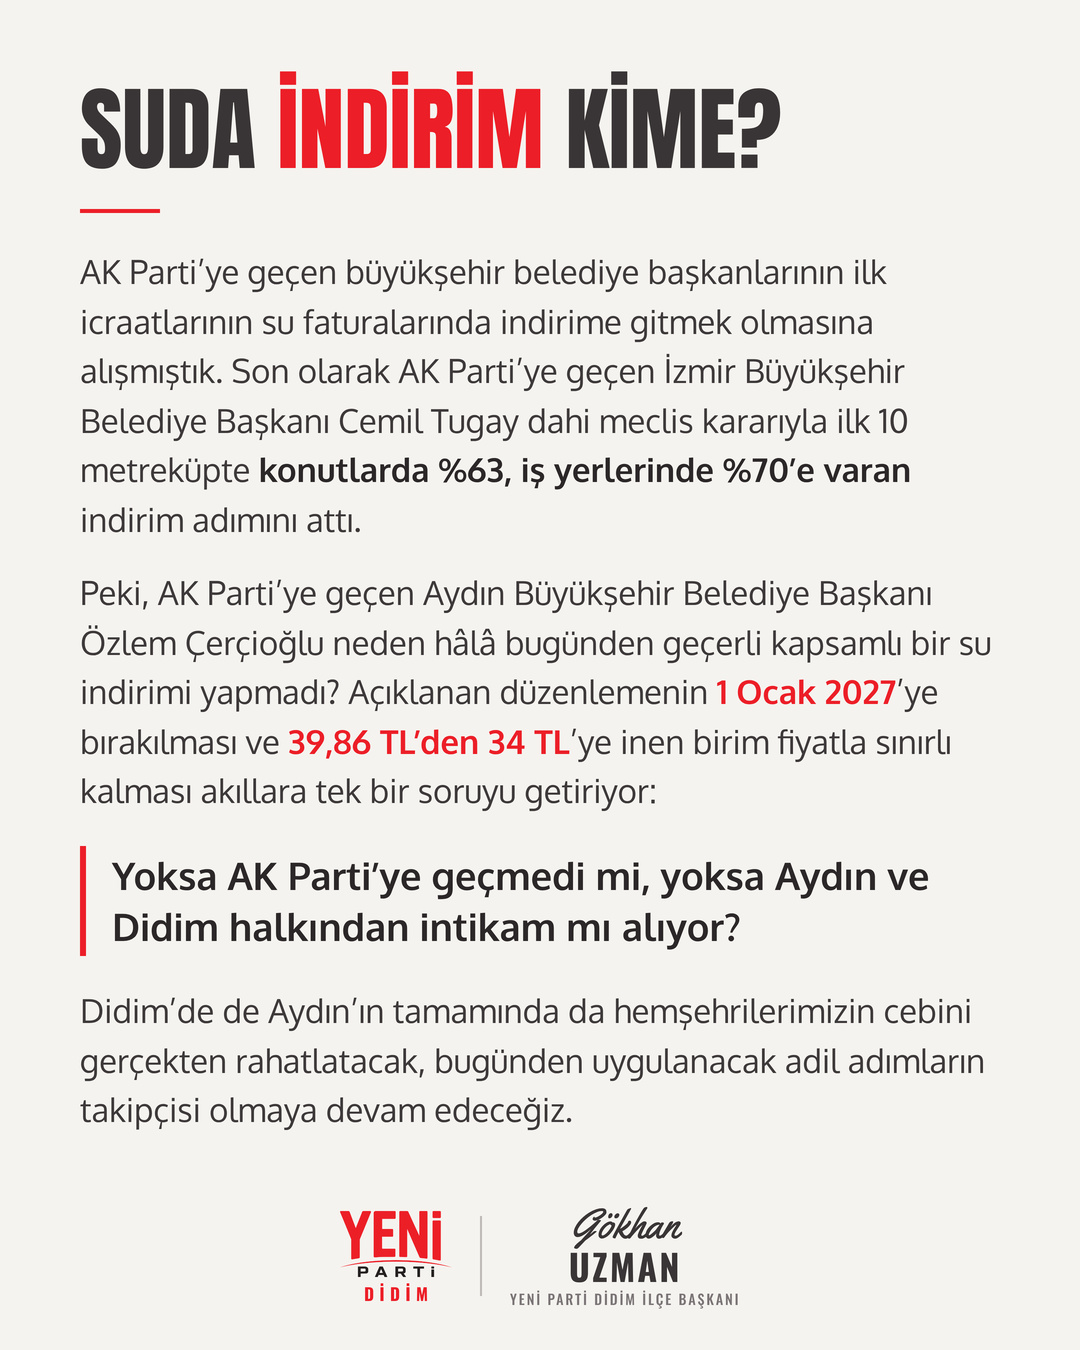
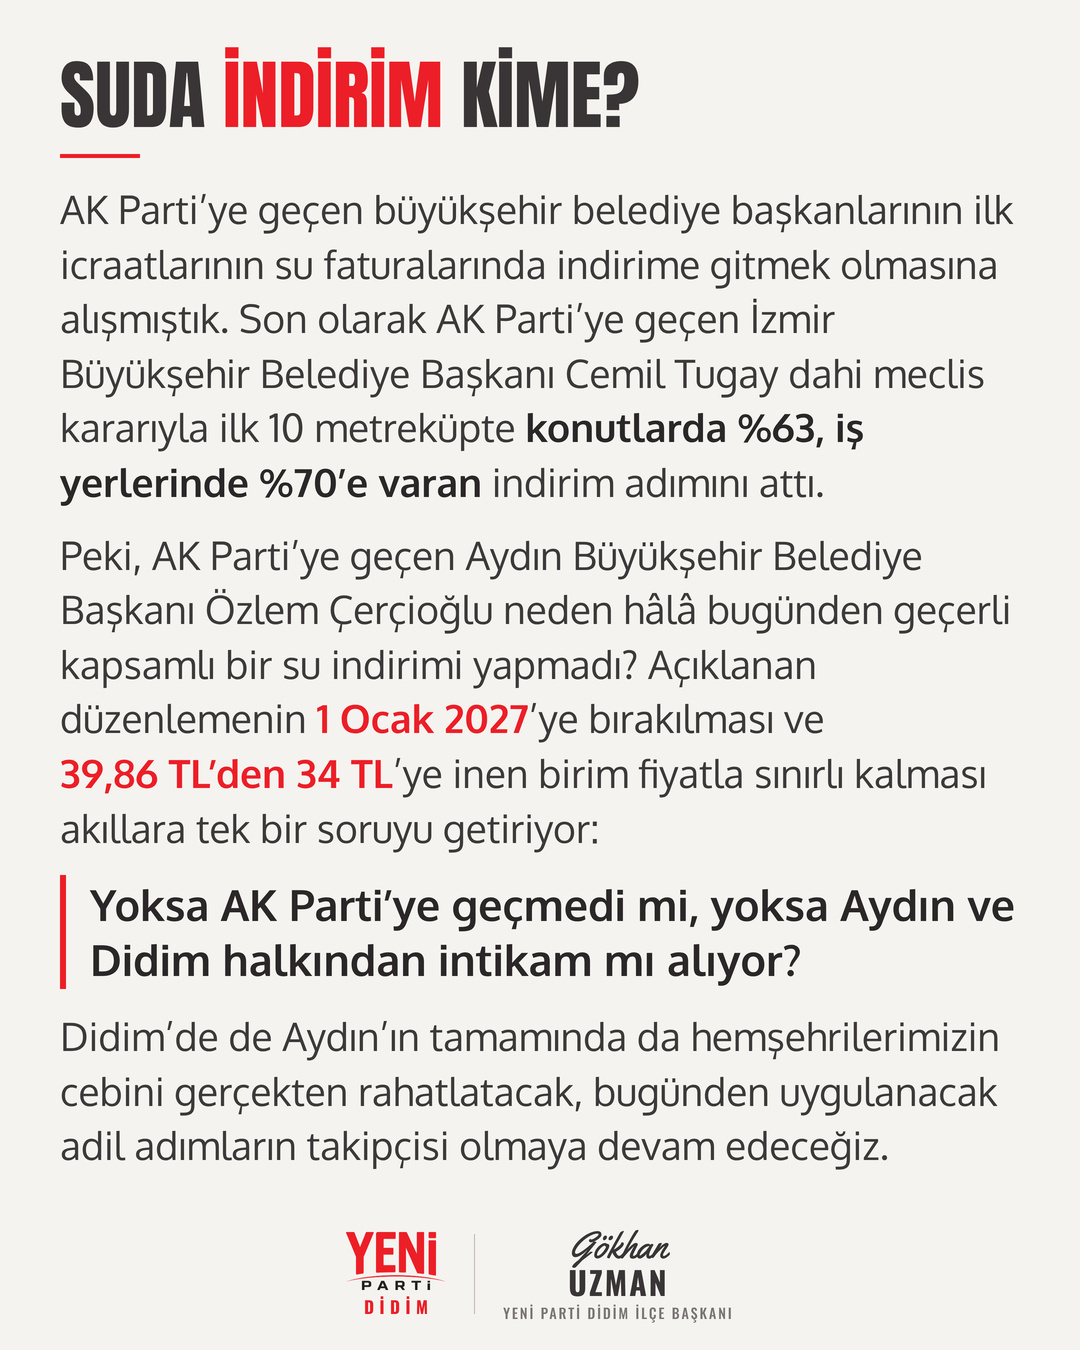
Su indirimi: yazılar büyütüldü
Claude-Session: https://claude.ai/code/session_01SatttGbgBLoCnk9KGLypWv

Changed region(s): [[0.0306, 0.0311, 0.9472, 0.9956]]

diff --git a/tasarim/kisisel/su-indirimi/post-metin.html b/tasarim/kisisel/su-indirimi/post-metin.html
@@ -11,19 +11,19 @@
 :root{--r:#EC1E27;--g:#393536}
 html,body{margin:0;width:1080px;height:1350px;overflow:hidden;background:#F5F3EF;color:var(--g);font-family:Ox}
 .an{font-family:An;text-transform:uppercase;line-height:1.08}
-.ic{position:absolute;left:80px;right:80px;top:70px}
-.h{font-size:92px;padding-top:10px}.h span{color:var(--r)}
-.ln{width:80px;height:4px;background:var(--r);margin:30px 0 34px}
-.t{font:400 33px/1.5 Ox;color:#3d393a}
-.t p{margin:0 0 24px}
+.ic{position:absolute;left:60px;right:60px;top:44px}
+.h{font-size:76px;padding-top:10px}.h span{color:var(--r)}
+.ln{width:80px;height:4px;background:var(--r);margin:18px 0 24px}
+.t{font:400 39px/1.4 Ox;color:#3d393a}
+.t p{margin:0 0 18px}
 .t b{font-weight:700;color:#2b2728}
-.t em{font-style:normal;font-weight:700;color:var(--r)}
-.t .q{font:700 38px/1.35 Ox;color:#2b2728;border-left:6px solid var(--r);padding:4px 0 4px 26px;margin:30px 0}
-.imza{position:absolute;left:0;right:0;bottom:44px;display:flex;justify-content:center;align-items:center;gap:28px}
-.imza img{height:66px}
+.t em{white-space:nowrap;font-style:normal;font-weight:700;color:var(--r)}
+.t .q{font:700 43px/1.28 Ox;color:#2b2728;border-left:6px solid var(--r);padding:2px 0 2px 24px;margin:20px 0}
+.imza{position:absolute;left:0;right:0;bottom:30px;display:flex;justify-content:center;align-items:center;gap:28px}
+.imza img{height:58px}
 .ay{width:1.5px;height:80px;background:rgba(57,53,54,.3)}
 .ns{display:flex;flex-direction:column;align-items:center;color:var(--g)}
-.g{font:42px/.9 YT}.u{font:36px/1 O7;letter-spacing:.06em;margin-top:4px}.tt{font:14px/1 O5;letter-spacing:.14em;color:#7a7476;margin-top:8px}
+.g{font:38px/.9 YT}.u{font:32px/1 O7;letter-spacing:.06em;margin-top:4px}.tt{font:14px/1 O5;letter-spacing:.14em;color:#7a7476;margin-top:8px}
 .lg{display:flex;flex-direction:column;align-items:center}.lg span{margin-top:8px;font:17px/1 O7;letter-spacing:.32em;padding-left:.32em;color:var(--r)}
 </style><body><div class="ic">
 <div class="h an">Suda <span>indirim</span> kime?</div>
